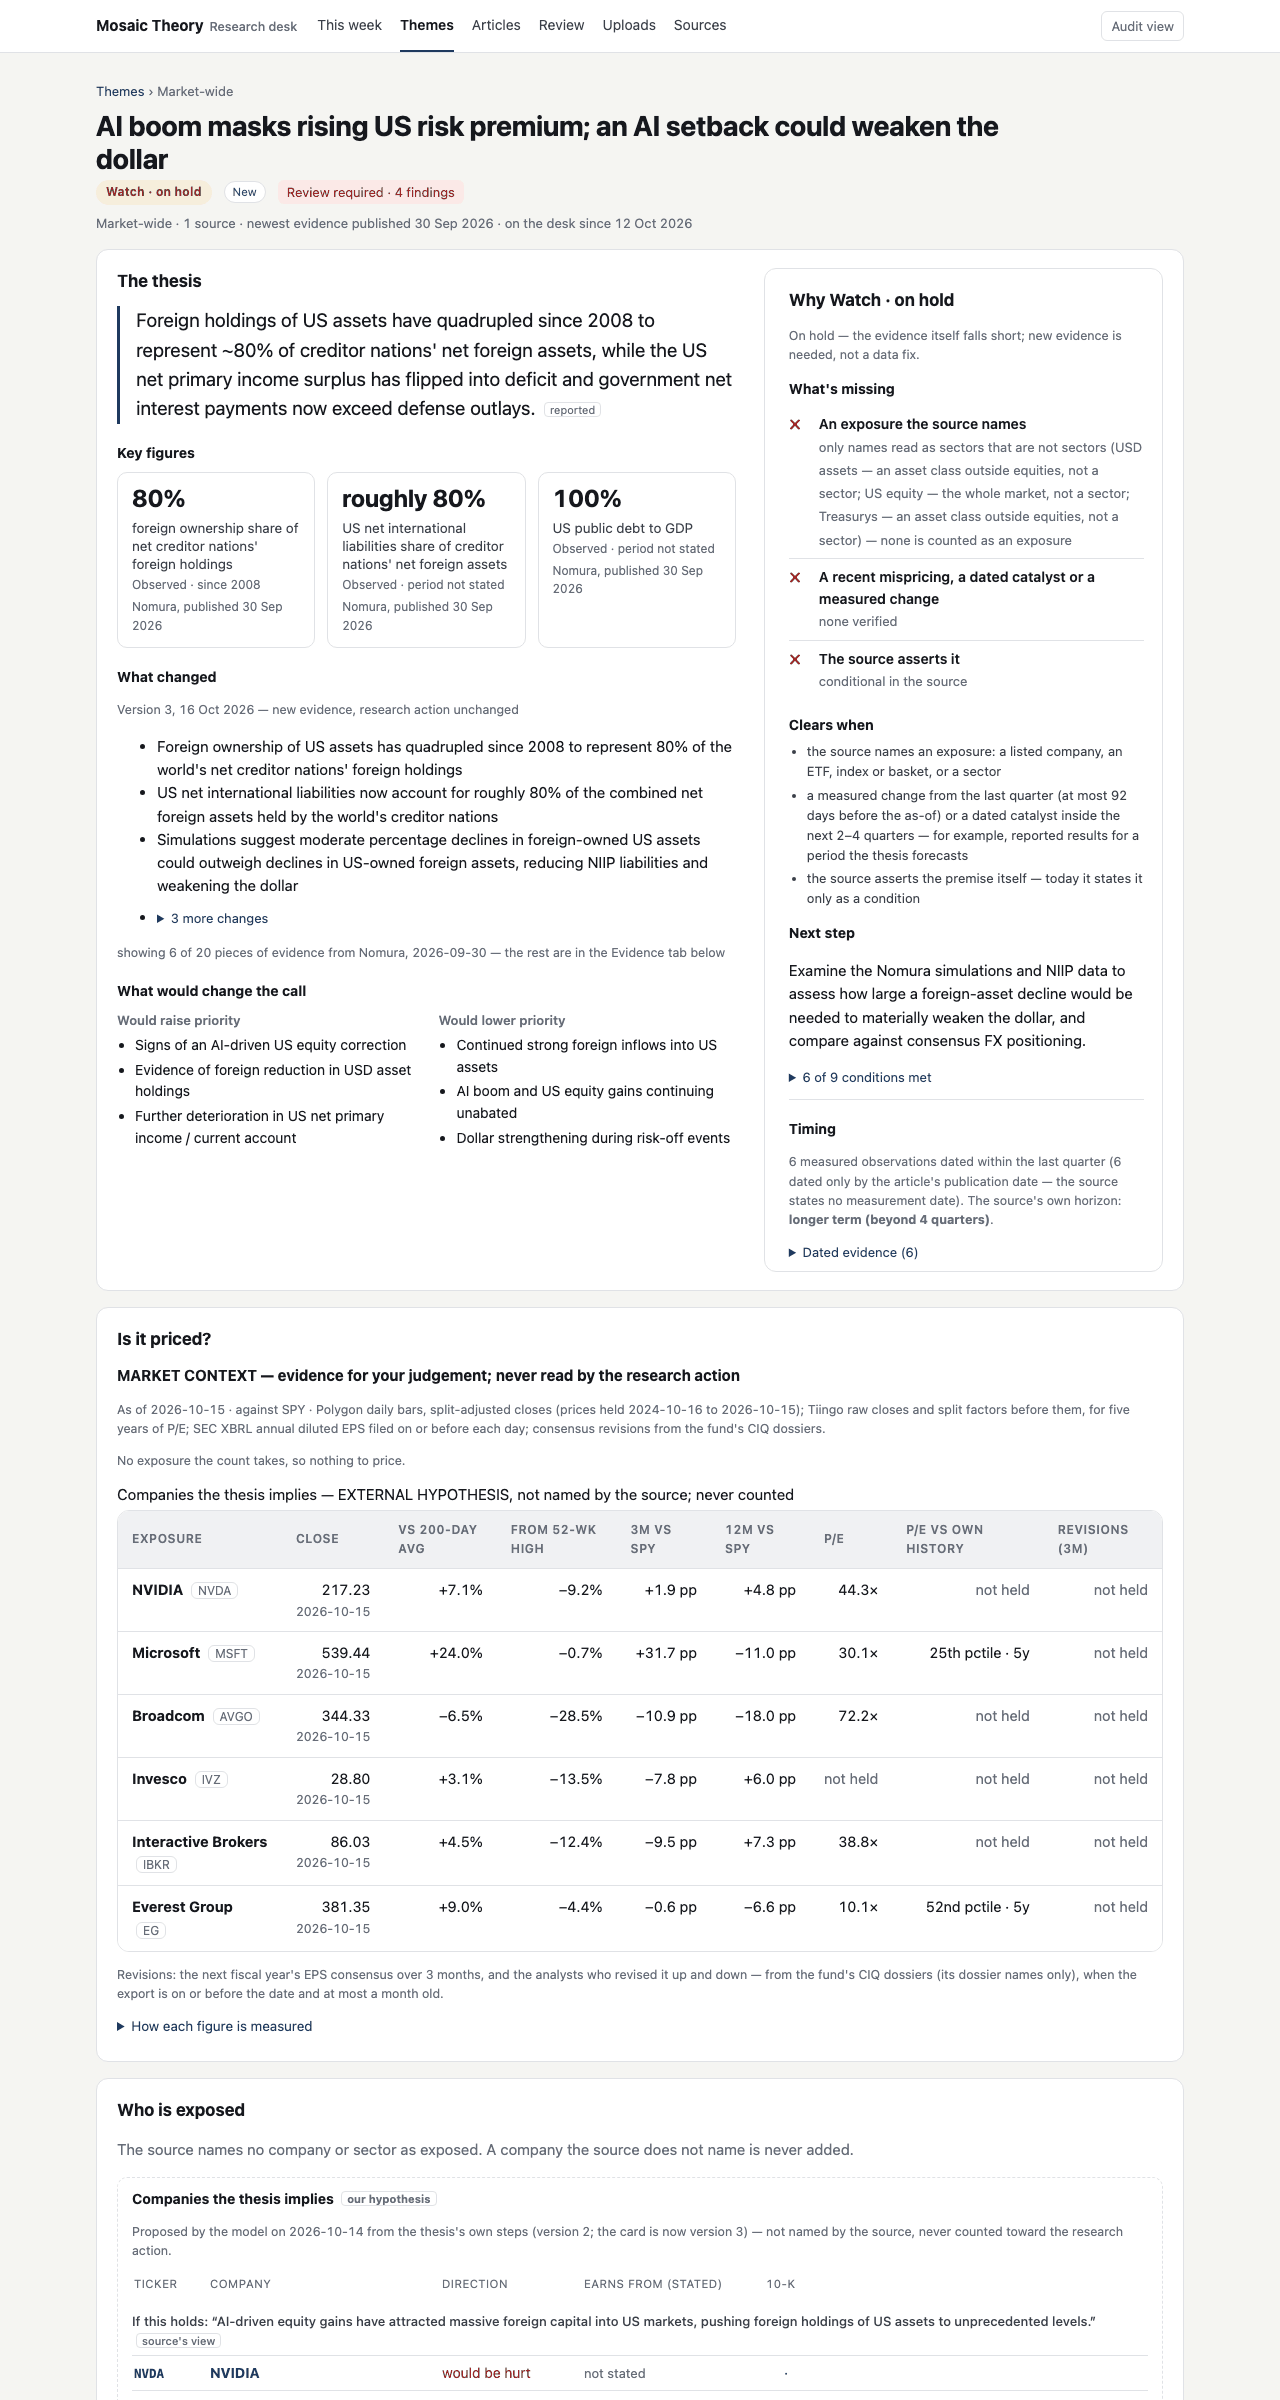
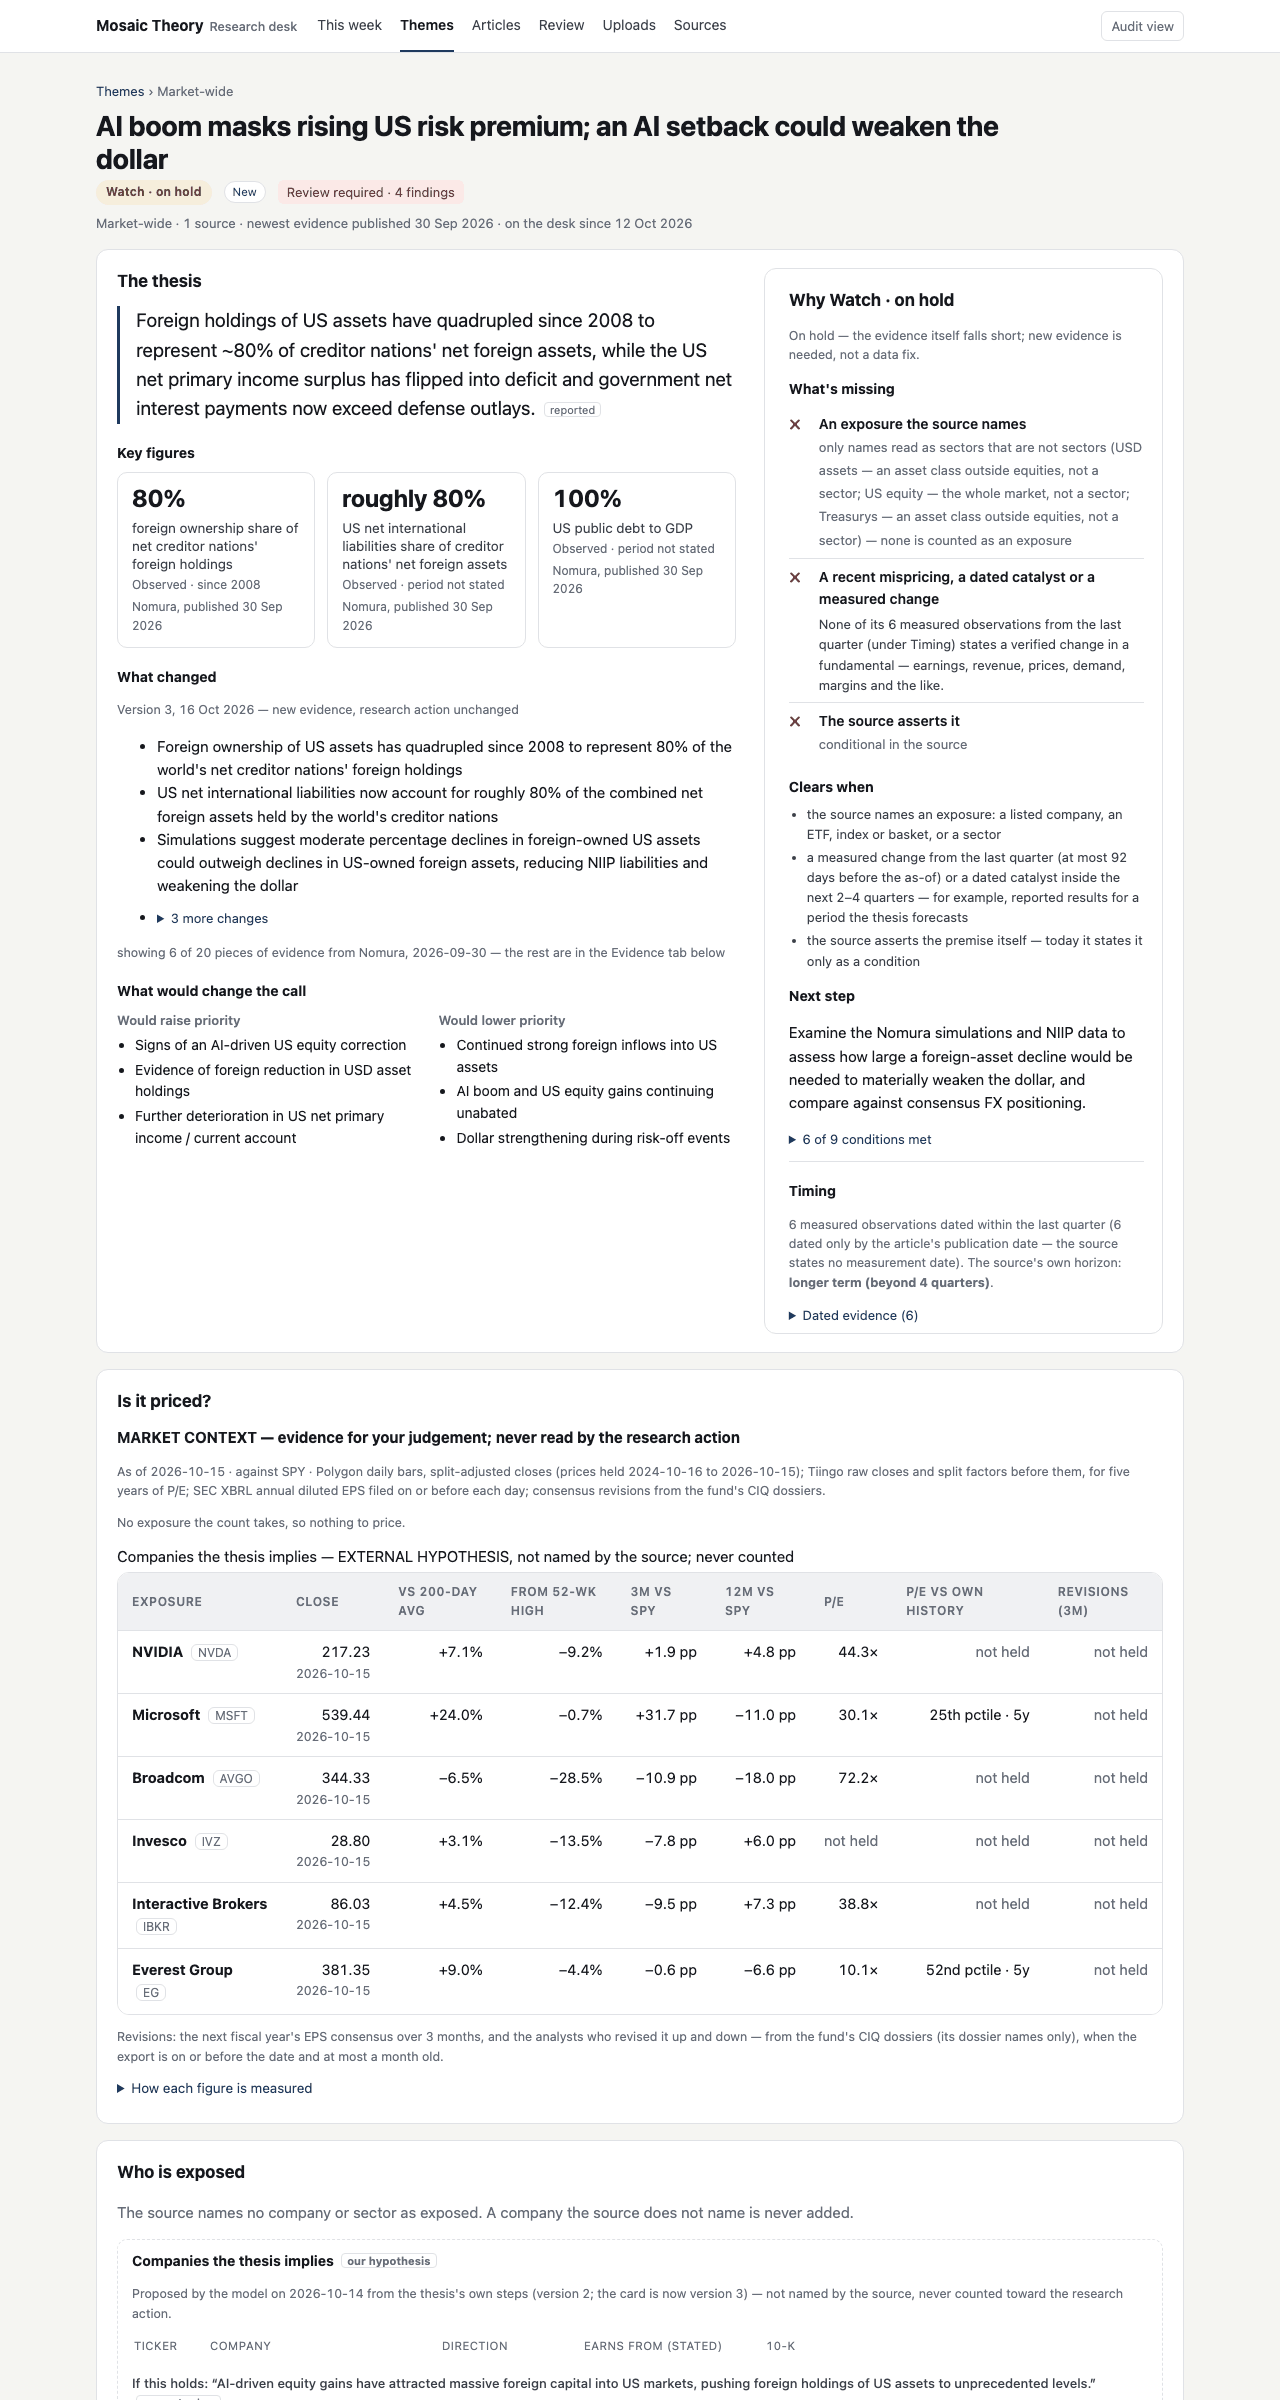
Record: the catalyst condition vs Timing on the theme-intelligence desk (2026-10-17)
The record's new section and verification counts (21 unmet catalyst conditions on a copy of the
live pilot registry, run R-20261016T163302Z-market), and the re-captured thesis pages.

diff --git a/docs/records/2026-10-17-theme-intelligence-desk-for-experts.md b/docs/records/2026-10-17-theme-intelligence-desk-for-experts.md
@@ -30,8 +30,10 @@ The rule applied on every page:
 2. **What's missing.** Every unmet condition, timing included.
    - Under an unmet catalyst condition, **the evidence behind it** (`evidence_gap`) replaces the
      rule's generic detail ("none verified", "a forecast without a corroborating measurement").
-     It gives the forecasts, counted (they are named under Key figures beside it), and the
-     latest measured figure with its age against the rule's own window.
+     It gives:
+     - the forecasts, counted (they are named under Key figures beside it);
+     - why the measured observations Timing counts in the last quarter do not carry it (below);
+     - the latest measured figure, with its age against the rule's own window.
    - That figure is dated by `timewindow.observation_date`, extracted from `timing_of`, so the
      rule and the page share ONE reading.
    - Pilot, TH-FBDC863613: "Its latest measured figure, earnings growth 31% (2Q26), dates from
@@ -48,11 +50,36 @@ The rule applied on every page:
 would change the call", in two columns. In the panel it had doubled the panel's height beside a
 short main column. On a phone the panel comes first.
 
+**The catalyst condition contradicted Timing on 7 of 23 pilot pages** (operator question on
+#740, 2026-10-17). TH-2FFD9B58A8's Timing counted "6 measured observations dated within the last
+quarter" while the catalyst condition read only "none verified". The rule was right; the page
+did not say why.
+- A last-quarter measured observation counts toward the catalyst only if its quote states a
+  verified change in a fundamental (`priority._fundamental_change`: earnings, revenue, prices,
+  demand, margins …). None of the six passes that test.
+- The panel now says so, with Timing's own count and the rule's own test: "None of its 6
+  measured observations from the last quarter (under Timing) states a verified change in a
+  fundamental — earnings, revenue, prices, demand, margins and the like".
+- On the pilot that is 6 pages: TH-2651327A9B, TH-2FFD9B58A8, TH-41B1AB7F8C, TH-DEB6560D7F, and
+  TH-1D5A6AD90E and TH-8DDD7B2868 in the singular. Each count equals its page's Timing count.
+- The forecasts line now says "no measured change **in a fundamental** from the last quarter".
+  Read beside "15 measured observations", the old wording contradicted itself.
+
+**The seventh page called a measured change a forecast.** On TH-16225B12C4 the one change the
+inflection reading counted is MEASURED ("spending on caffeinated beverages has grown at 6%
+annually"), and nothing corroborates it. The panel said "a forecast without a corroborating
+measurement", the desk's wording for every "not credible" reading. It now says: "Its measured
+change in a fundamental — caffeinated beverage spending growth 6% (since 2019) — is not
+corroborated: neither a second measured change in a fundamental nor the publisher's own data in
+an industry data report vouches for it." TH-FBDC863613, the other "not credible" thesis, counts a
+forecast and keeps the forecasts line.
+
 **A fault found while checking the panel.** When the inflection reading is "incomplete" (a
 measured change from the last quarter IS there; only its step to profits is missing), the
 forecasts line would have said "no measured change … corroborates them", which is false.
 - `evidence_gap` now says nothing in that case, and the condition keeps the rule's reason ("no
-  stated step from the change to profits").
+  stated step from the change to profits"). The same holds whenever a cited measured
+  observation IS a change in a fundamental (other than the uncorroborated case above).
 - No pilot thesis reads "incomplete" today: as of the published run, F12 reads "absent" on 21
   of the 23 and "not credible" on 2. So nothing published was wrong. The pin uses a real fixture
   version with its F12 reading changed.
@@ -127,10 +154,18 @@ theses, most of them retired.
 | Themes | 1 table, 23 rows | 13 "Missing:" lines; 0 related counts |
 | Articles | 6 folds | — |
 
-- The forecasts and measured-age lines are as in the first pass: 11 pages and 1 page.
-- Placeholder scan over every published page (every fold open, audit layer hidden): 30 hits on
-  this branch and 30 on main's published desk. All are ordinary English ("None of the 13 texts…")
-  or an existing audit message on the full report, so the redesign adds none.
+- Catalyst conditions, all 21 unmet ones on the pilot read in full:
+  - 10 carry the forecasts line;
+  - 6 the "measured observations … no change" line;
+  - 1 the uncorroborated measured change;
+  - 1 the measured-age line;
+  - 7 still show only "none verified". All 7 have no dated evidence at all ("timing unknown");
+    one is active (TH-F6906B89B0).
+- Placeholder scan over every published page (every fold open, audit layer hidden): 34 hits on
+  this branch and 30 on main's published desk.
+  - The 4 extra are the new sentence itself ("None of its 4 measured observations…").
+  - The other 30 are ordinary English ("None of the 13 texts…") or an existing audit message on
+    the full report.
 
 **Words on screen** (default view, folds closed; main's published desk → this branch):
 
@@ -146,6 +181,7 @@ theses, most of them retired.
   pages TH-FBDC863613 and TH-2FFD9B58A8;
 - the after pages again with every `<details>` opened (This week, the thesis page) and at 500px
   (This week, Themes, the thesis page);
+- TH-16225B12C4, the uncorroborated measured change;
 - Uploads.
 
 **Pins, end to end on committed fixtures:**
@@ -153,7 +189,13 @@ theses, most of them retired.
   - the panel's order;
   - raise/lower in the main column and never in the panel;
   - "Clears when" against the stored codes;
-  - the evidence line replacing the generic detail;
+  - the evidence lines replacing the generic detail;
+  - the "measured observations … no change" line, with Timing's own count (one observation and
+    two) and the rule's own test;
+  - NEGATIVE: once one observation IS a change in a fundamental, neither line is said;
+  - the uncorroborated measured change named as such;
+  - NEGATIVE: a counted forecast keeps the forecasts line, and a credited change is never called
+    uncorroborated;
   - NEGATIVE: an "incomplete" inflection keeps the rule's reason;
   - the measured figure's age;
   - directions, periods and the named note;
@@ -173,13 +215,17 @@ theses, most of them retired.
   - NEGATIVE: before its retirement it is listed live;
   - the related-thesis pins now read the thesis pages.
 
-**Mutation.** 19 mutants on the final code, all killed:
+**Mutation.** 27 mutants on the final code, all killed:
 - This week: the Research Now group, the move group, new-before-moved, the group order, the
   area, the long names, the retired fold, an archived row naming what is missing;
 - Themes: no "Missing:", no area, headers breaking;
 - Articles: no fold, a wrong count, live theses folded;
 - the panel: the generic detail kept, the evidence lines dropped, the "incomplete" guard, raise
-  and lower back in the panel, raise and lower not rendered.
+  and lower back in the panel, raise and lower not rendered;
+- the catalyst lines: the observations line dropped, a count not Timing's own, singular for
+  plural, the change guard removed, the uncorroborated line dropped, forecasts counted as
+  measured, the uncorroborated line on any reading (killed once a credited change was pinned
+  directly), the old forecasts wording.
 
 Four first-round survivors were equivalent mutants, i.e. conditions that can never fire:
 - a retired thesis is always archived as of its run (`ARCHIVING` holds "RETIRED");
@@ -191,7 +237,7 @@ The first pass's 11 mutants (the key line, "Clears when", the evidence line, the
 directions, periods, the note's name and count, the Monday wording, a wrong clearing text) were
 all killed on the first-pass code, before raise and lower moved out of the panel.
 
-**Suite.** ruff and `mypy --strict` clean; `pytest -m "not network"`: 5856 passed, 513 skipped.
+**Suite.** ruff and `mypy --strict` clean; `pytest -m "not network"`: 5858 passed, 513 skipped.
 
 ## BOUNDARY
 
@@ -209,8 +255,10 @@ all killed on the first-pass code, before raise and lower moved out of the panel
   its full name in lower case, and no clearing line, until one is added.
 - The 2Q26 example shows the rule's own boundary (92 days). Whether that window is right is a
   rule question, not changed here.
-- **Seen, not changed** (rule-level, so reported here and not fixed in a render PR): on
-  TH-2FFD9B58A8 the timing section counts "6 measured observations dated within the last
-  quarter" while the catalyst condition reads "none verified". The six are dated only by the
-  article's publication date and are levels, not changes, so the rule is consistent; the page
-  does not yet say why they do not count.
+- **Seen, not changed** (rule-level, so reported here and not fixed in a render PR):
+  - The rule's own F12 note for a "not credible" reading says "a forecast alone" even when the
+    counted change is measured (TH-16225B12C4). It is now corrected on the page, not in the
+    stored note.
+  - That change, "6% annually since 2019", counts as a last-quarter observation because a
+    change since a date is dated by the article's publication date. Whether a multi-year rate is
+    a near-term change is a rule question.
